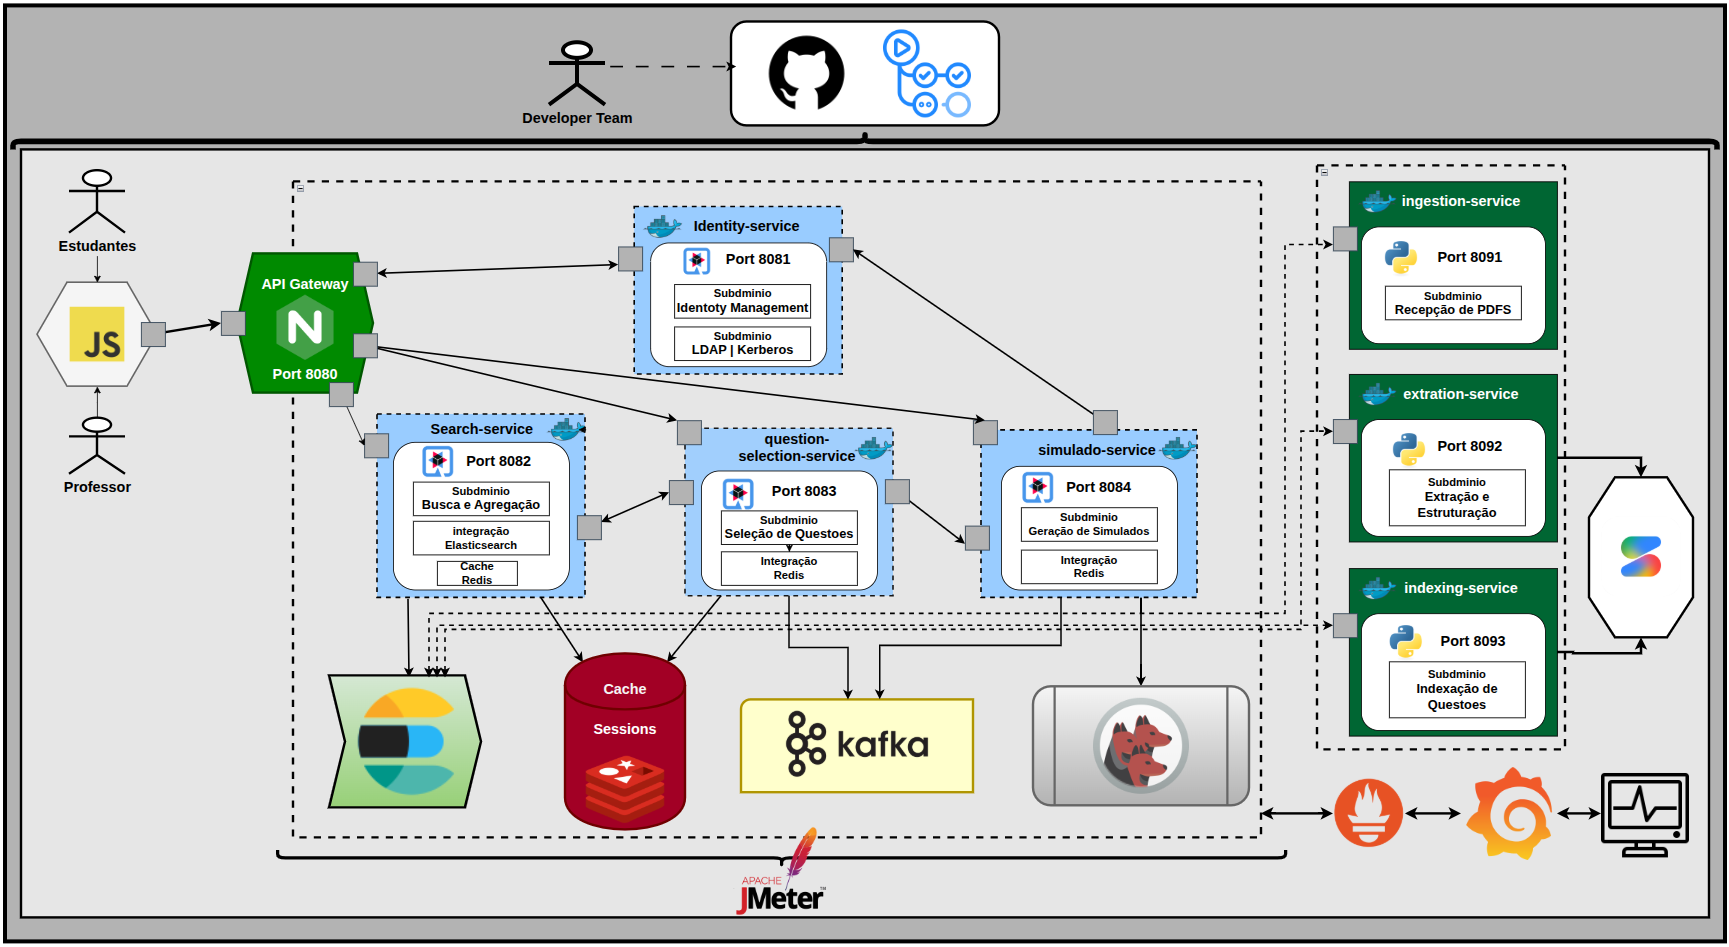
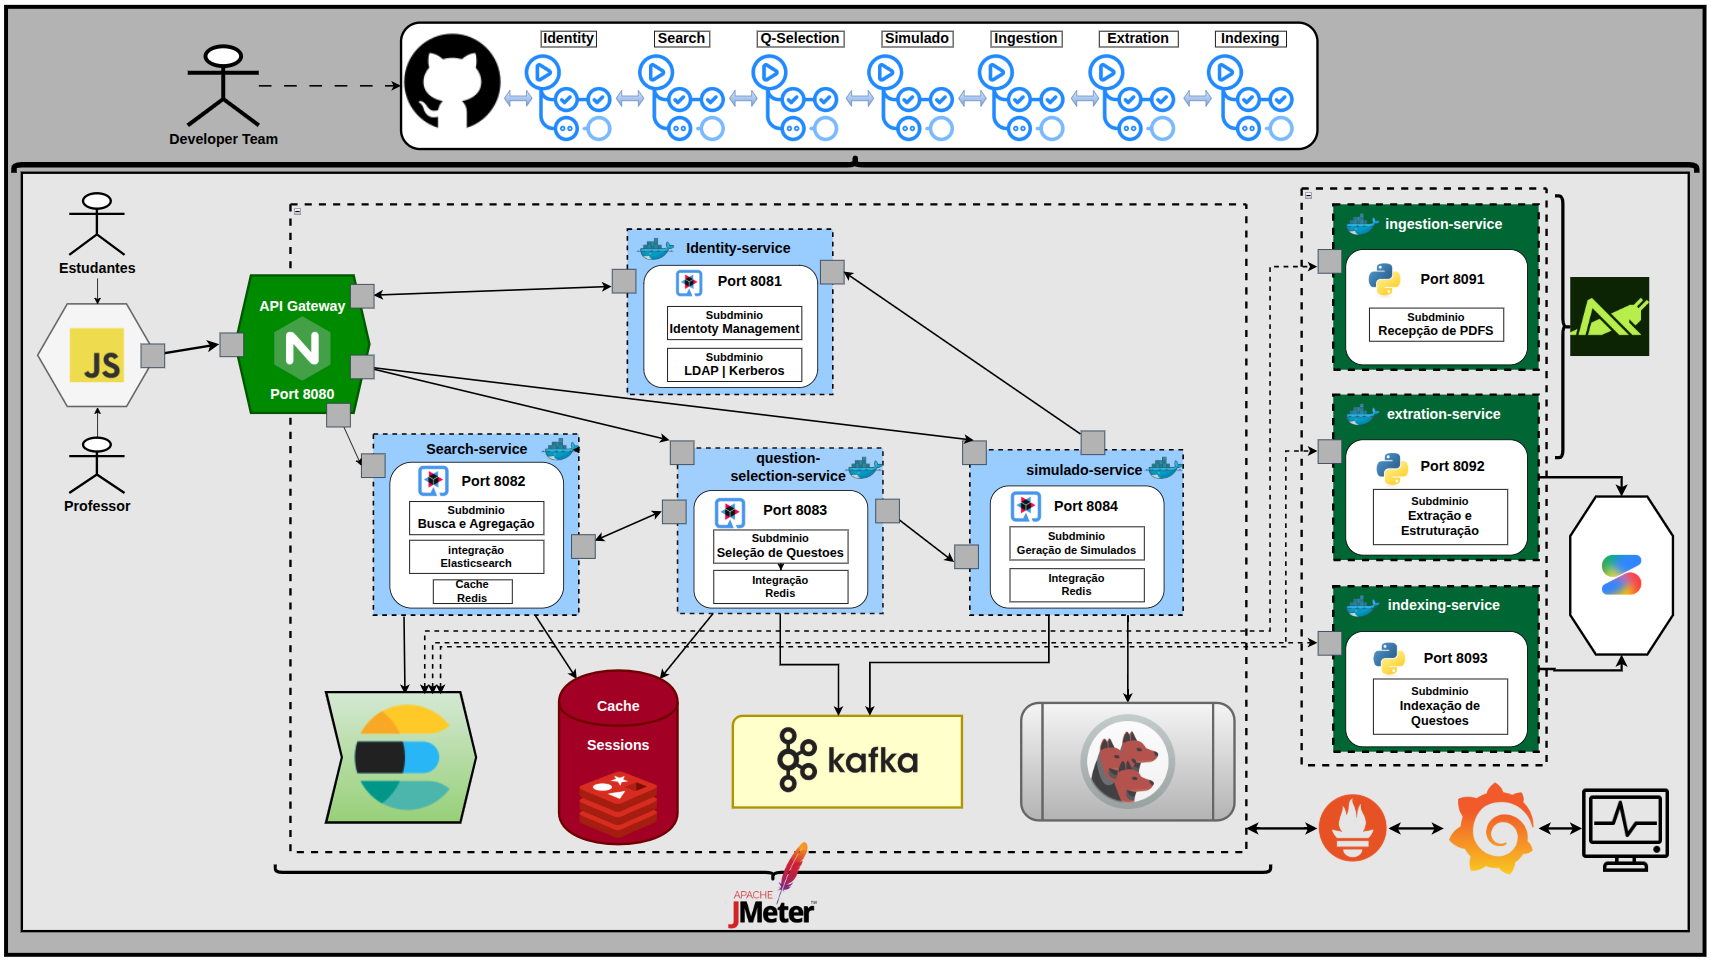
feat(docs): adiciona diagrama relacionados ao cache, e faz correçao de escrita da seçao

Changed region(s): [[0.0, 0.0, 1.0, 1.0], [0.5576, 0.3675, 0.5885, 0.3981], [0.5266, 0.3062, 0.5576, 0.3369]]

diff --git a/README.md b/README.md
@@ -370,50 +370,57 @@ O uso de aliases permite trocar a versão ativa do índice sem interromper o `se
 
 ### API de busca com Java e Quarkus
 
+O Redis é utilizado para reduzir a latência de operações frequentes e manter informações temporárias associadas à sessão do usuário.
+
+Ele não substitui o Elasticsearch como fonte de busca nem o MinIO como fonte dos documentos originais. Sua função é otimizar acessos recorrentes e preservar estado de curta duração.
+
 O `search-service` é implementado em Java com Quarkus e expõe a API REST responsável pelas consultas ao acervo estruturado.
 
 Esse serviço recebe requisições do frontend por meio do `api-gateway`, valida o contexto de autenticação, interpreta os filtros recebidos e executa as consultas no Elasticsearch.
 
 As consultas suportam:
+- Busca *full-text*, Filtros combináveis, Paginação, Ordenação por relevância, Agregações, Restrições por perfil de usuário e *Highlight*.
 
-- Busca full-text;
-- Filtros combináveis;
-- Paginação;
-- Ordenação por relevância;
-- Agregações;
-- Highlight;
-- Restrições por perfil de usuário.
+---
 
-### Redis como camada de baixa latência
+### Fluxo de Consulta, Cache e Seleção de Questões
 
-O Redis é utilizado para reduzir a latência de operações frequentes e manter informações temporárias associadas à sessão do usuário.
+O diagrama de sequência a seguir ilustra a interação do usuário final com a aplicação: validação de identidade via OpenLDAP, roteamento pelo NGINX Gateway, verificação da chave no Redis Cache e fallback de consulta no Elasticsearch, além do armazenamento do estado de seleção de questões.
 
-Ele não substitui o Elasticsearch como fonte de busca nem o MinIO como fonte dos documentos originais. Sua função é otimizar acessos recorrentes e preservar estado de curta duração.
+<p align="center">
+  <img src="./docs/imagens/diagramas/usuario cache.png" alt="Fluxo de Consulta, Cache e Seleção do Usuário">
+</p>
 
-| Uso do Redis | Finalidade |
-|---|---|
-| Cache de buscas frequentes | Reduz consultas repetidas ao Elasticsearch. |
-| Sessões de autenticação | Mantém o contexto autenticado do usuário. |
-| Lista de questões selecionadas | Preserva o estado de seleção durante a navegação. |
-| Controle de operações temporárias | Suporta fluxos como geração e acompanhamento de simulados. |
+---
 
-### Política de expiração e invalidação
+### Política de Expiração e Invalidação
 
-Os dados armazenados no Redis possuem TTL, garantindo que informações temporárias não permaneçam indefinidamente em memória.
+Os dados armazenados no Redis possuem TTL (Time-To-Live), garantindo que informações temporárias não permanecem indefinidamente em memória. Essa estratégia equilibra performance, consumo de memória e consistência do estado apresentado ao usuário.
 
 A invalidação é aplicada quando:
-
 - A sessão do usuário é encerrada;
 - O usuário altera sua seleção de questões;
 - O resultado de uma busca deixa de ser válido;
 - O contexto de autenticação é renovado;
 - Uma operação assíncrona é concluída.
 
-Essa estratégia equilibra performance, consumo de memória e consistência do estado apresentado ao usuário.
+---
+
+### Processamento Assíncrono e Exportação (Visão do Professor)
+
+Para rotinas mais pesadas, como a geração e o download de arquivos PDF de simulados, o sistema adota um fluxo assíncrono acionado via broker de mensagens. O estado da exportação é mantido no Redis enquanto o worker processa os dados e armazena o artefato final no MinIO.
 
 <p align="center">
-  <img src="./docs/imagens/diagramas/api.png">
+  <img src="./docs/imagens/diagramas/professor cache.png" alt="Fluxo de Exportação e Processamento Assíncrono do Professor">
 </p>
+
+alem do professor tem uma autoridade maior na plataforma, por sua mestre, 
+ele consta com uma licenca de login
+pass onde somente ele tem sua credencial de acesso disponibilizada pela propria plataforma, mesmo que alguem descubra a senha, essa pass gerado aleatoriamente e enviado via email, faz com que alguem de fora nao consiga ter acesso.
+
+---
+
+---
 
 > **Anexo:** [Busca, cache e sessão](./services/search-service/README.md)
 
@@ -424,6 +431,10 @@ Essa estratégia equilibra performance, consumo de memória e consistência do e
 ### Autenticação centralizada
 
 A autenticação dos usuários é centralizada no `identity-service`, que valida credenciais por meio do OpenLDAP e emite o contexto de sessão utilizado pelos demais serviços.
+
+<p align="center">
+  <img src="./docs/imagens/diagramas/securitybased.png">
+</p>
 
 ### Perfis de acesso
 
@@ -440,21 +451,13 @@ A autorização é aplicada tanto na camada de API quanto na lógica de negócio
 
 A comunicação entre Kafka, Elasticsearch e microsserviços é protegida por MIT Kerberos.
 
-O Kerberos utiliza principals, keytabs e autenticação mútua para garantir que apenas componentes autorizados consigam interagir com os serviços protegidos. A integração é realizada por meio de SASL/GSSAPI, que estabelece o contexto de segurança durante a comunicação.
-
-Essa abordagem evita que serviços internos dependam apenas de credenciais simples ou conexões não autenticadas, reduzindo a superfície de ataque da plataforma.
-
-### Princípios de segurança
-
-- Nenhum segredo deve ser versionado no repositório.
-- Keytabs, senhas, tokens e credenciais devem ser fornecidos por mecanismos seguros.
-- Logs não devem conter informações sensíveis.
-- Cada serviço deve utilizar o princípio do menor privilégio.
-- Alterações em autenticação, autorização ou criptografia exigem revisão técnica adicional.
-
 <p align="center">
   <img src="./docs/imagens/diagramas/security.png">
 </p>
+
+O Kerberos utiliza principals, keytabs e autenticação mútua para garantir que apenas componentes autorizados consigam interagir com os serviços protegidos. A integração é realizada por meio de SASL/GSSAPI, que estabelece o contexto de segurança durante a comunicação.
+
+Essa abordagem evita que serviços internos dependam apenas de credenciais simples ou conexões não autenticadas, reduzindo a superfície de ataque da plataforma.
 
 > **Anexo:** [Segurança e Kerberos](./docs/security/overview.md)
 
